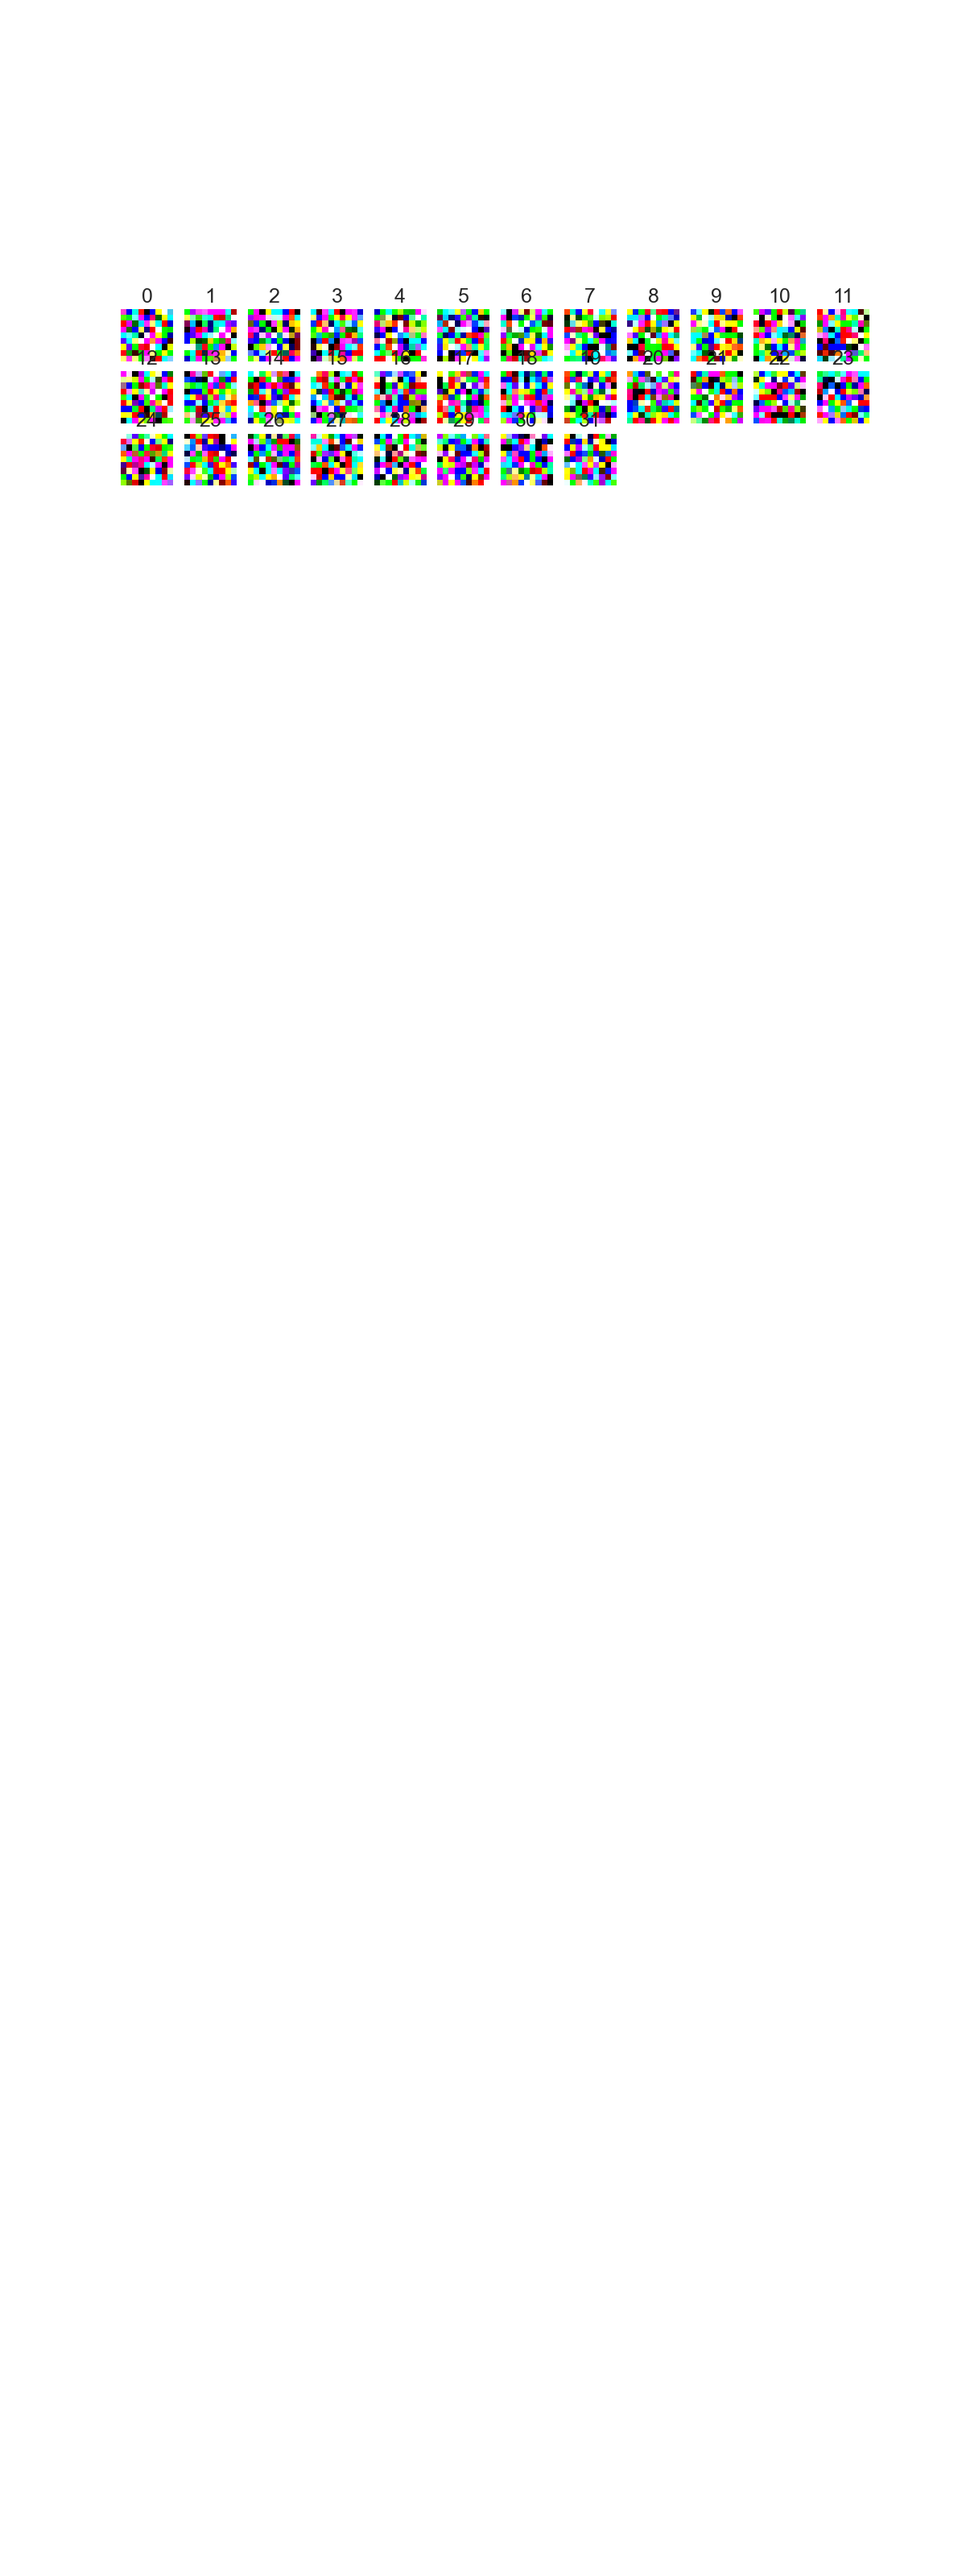
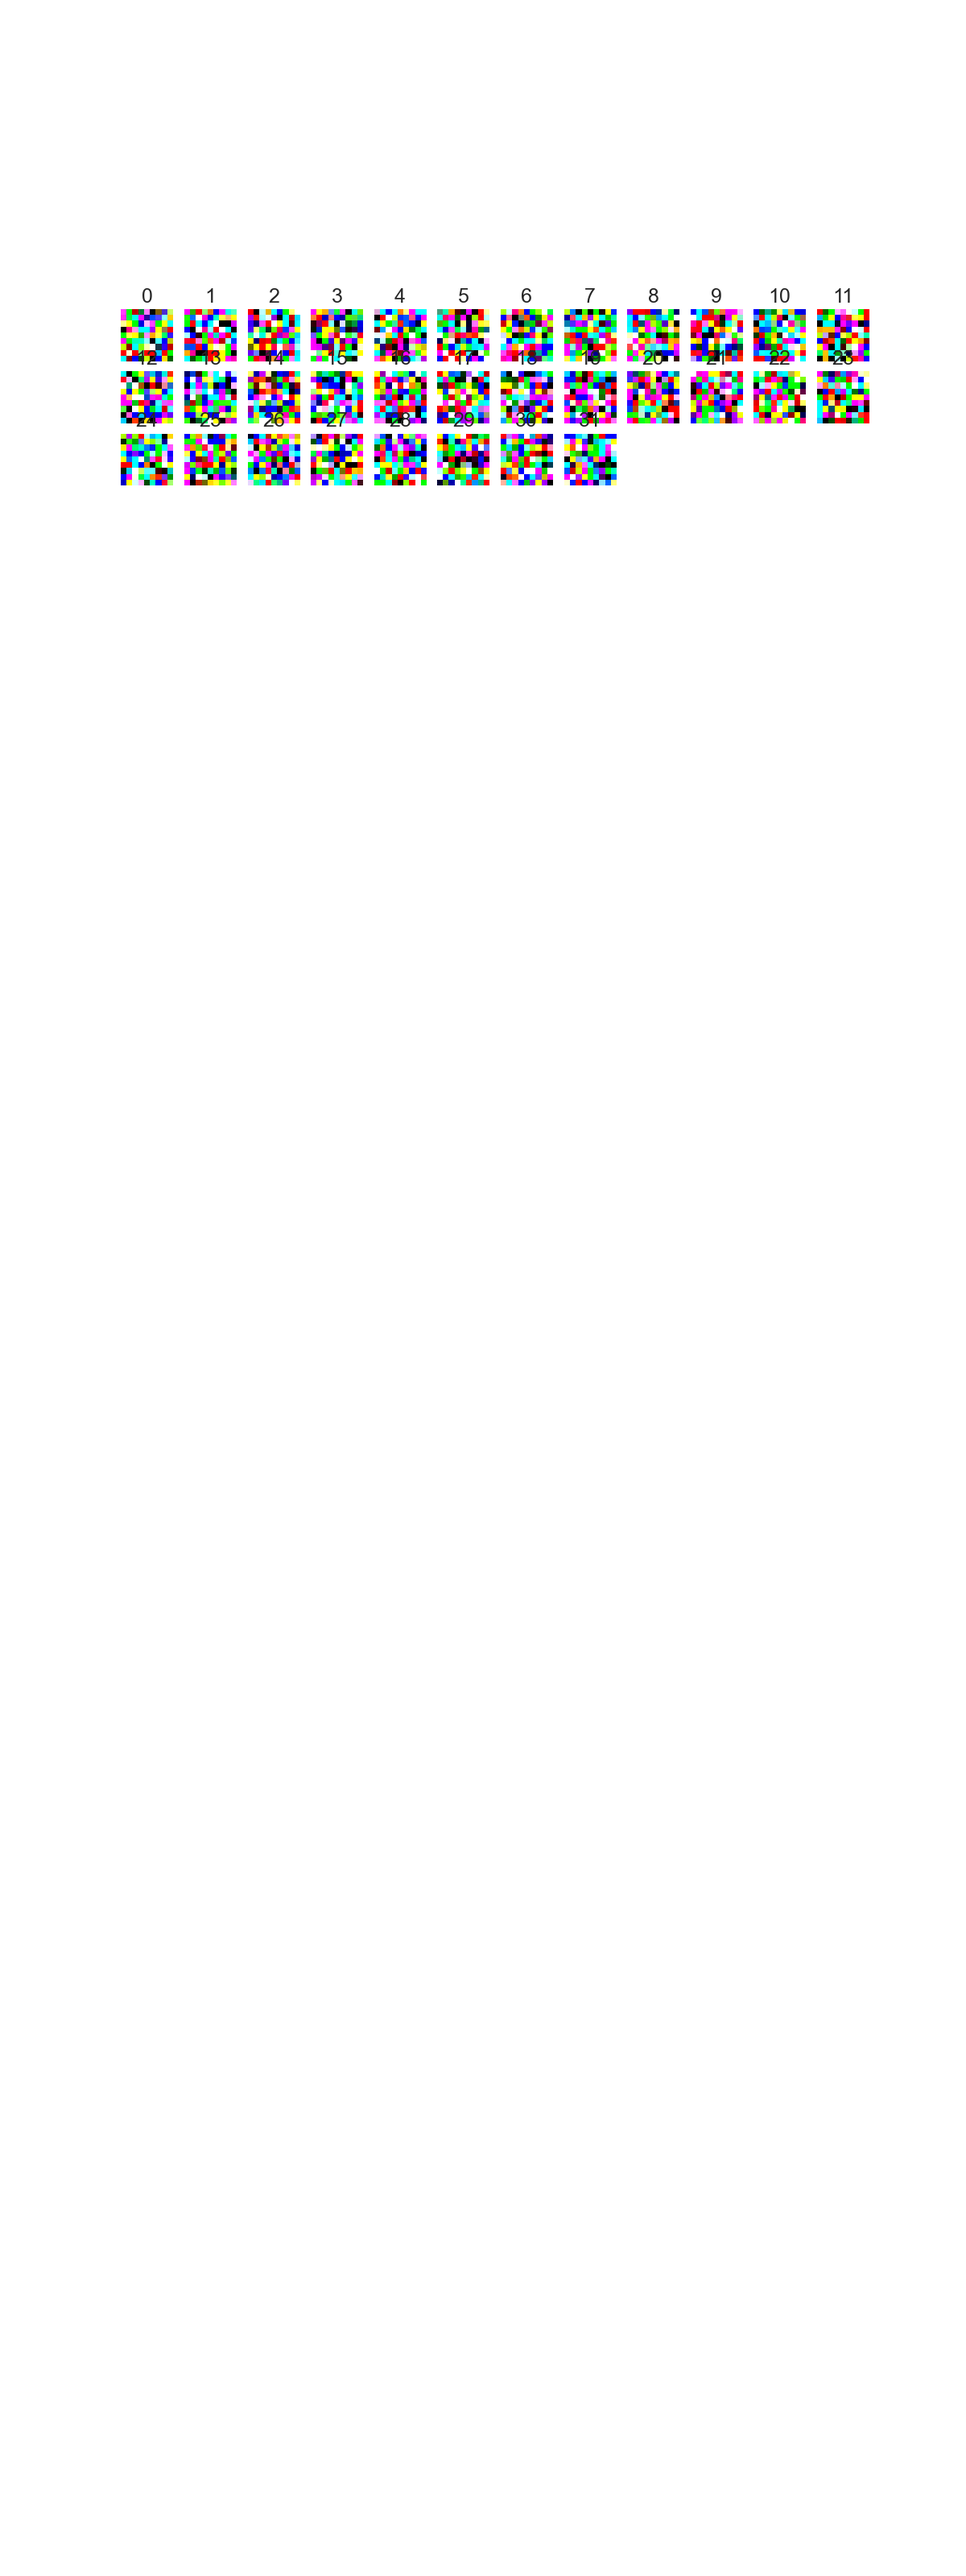
Fix della CNN

Changed region(s): [[0.1233, 0.0938, 0.925, 0.1875]]

diff --git a/CNN.py b/CNN.py
@@ -115,7 +115,7 @@ def isTrained(model_train_path):
 def show_kernels(model_test):
     # Get the first kernel from the model
     kernels_1 = model_test.conv1.weight.data.cpu().clone()
-    visTensor(kernels_1, ch=0, allkernels=False)
+    utils.visTensor(kernels_1, ch=0, allkernels=False, ax=0)
     plt.axis('off')
     plt.title('kernels from convolutional layer: 1')
     plt.ioff()
